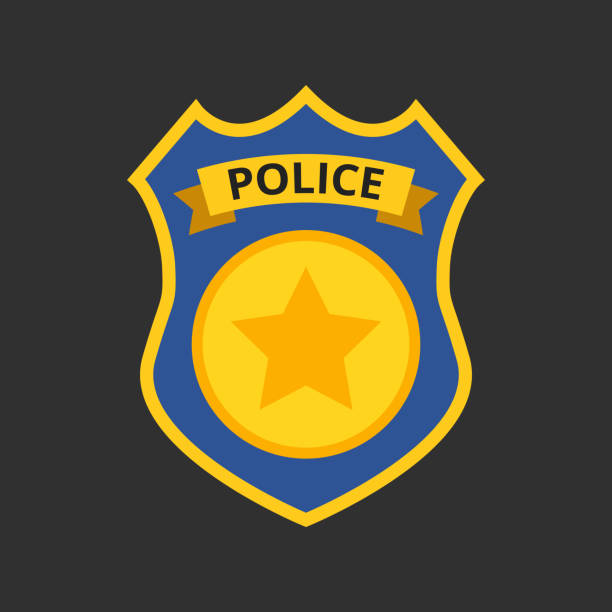
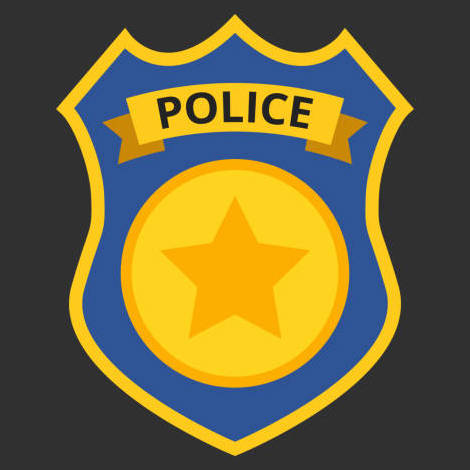
Working on flashlight feature

diff --git a/CapstoneProject/src/game/HauntedMaze.java b/CapstoneProject/src/game/HauntedMaze.java
@@ -19,43 +19,40 @@ public class HauntedMaze extends ScreenObject {
 	
 	public Officer protagonist;
 	public Grinch villain;
-	public MazeData data;
+	public MazeData settingData;
 	public ArrayList<Item> items;
+	
+	public double direction; // direction with respect to the horizontal (pointing right, clockwise) 
+	public static final double LIGHT_ANGLE = Math.PI*50/360;
+	public static final double LIGHT_DIST = 200;
+	public static final int LIGHT_RES = 10;
 	
 	public HauntedMaze()
 	{
 		super(0, 0, 200, 200);
-		protagonist = new Officer(10, 10);
+		protagonist = new Officer(null, 10, 10);
 		villain = new Grinch();
-		data = new MazeData();
+		settingData = new MazeData();
 		items = new ArrayList<Item>(); 
 		
+		direction = 0;
 	}
-
-	
-	public HauntedMaze(int size)
-	{
-		super(0, 0, 200, 200);
-		villain = new Grinch();
-		data = new MazeData();
-		items = new ArrayList<Item>();
-		
-	}
-	
 	
 	public void draw(PApplet marker)
 	{
-		marker.push();
-		
 		x = (marker.width-w)/2.0;
 		y = (marker.height-h)/2.0;
-		// mazeData.drawWalls(marker); 
 		
-		marker.rect((float)x, (float)y, (float)w, (float)h);
+		
+		marker.push();
+		
+		// marker.rect((float)x, (float)y, (float)w, (float)h);
 		marker.fill(0, 0, 0);
 		marker.text("Haunted Maze", (float)(x + w/2), (float)(y + h/2));
 		
-		data.drawWalls(marker);
+		settingData.draw(marker, (float)x, (float)y, (float)w, (float)h);
+		
+		drawLighting(marker);
 		protagonist.draw(marker);
 		villain.draw(marker);
 		for (Item i : items)
@@ -64,9 +61,145 @@ public class HauntedMaze extends ScreenObject {
 		marker.pop();
 	}
 	
+	public void drawLighting(PApplet marker)
+	{
+		marker.push();
+		
+		// marker.noStroke();
+		
+		
+		double px = protagonist.getX() + protagonist.getW()/2;
+		double py = protagonist.getY() + protagonist.getH()/2;
+		
+		
+		double[][] pointArr = new double[LIGHT_RES+1][2];
+		
+		for (int i = 0; i < LIGHT_RES; i++)
+		{
+			double angle = direction - LIGHT_ANGLE/2 + LIGHT_ANGLE*i/LIGHT_RES;
+			double travelDist = LIGHT_DIST;
+			double X1 = px + Math.cos(angle)*travelDist; double Y1 = py + Math.sin(angle)*travelDist;
+			double X2 = px + Math.cos(angle + LIGHT_ANGLE/LIGHT_RES)*travelDist; double Y2 = py + Math.sin(angle + LIGHT_ANGLE/LIGHT_RES)*travelDist;
+			pointArr[i][0] = X1; pointArr[i][1] = Y1;
+			pointArr[i+1][0] = X2; pointArr[i+1][1] = Y2;
+		}
+		
+		double minX = Double.MAX_VALUE; double maxX = Double.MIN_VALUE;
+		double minY = Double.MAX_VALUE; double maxY = Double.MIN_VALUE;
+		
+		for (double[] pt : pointArr)
+		{
+			if (pt[0] < minX)
+				minX = pt[0];
+			if (pt[0] > maxX)
+				maxX = pt[0];
+			if (pt[1] < minY)
+				minY = pt[1];
+			if (pt[1] > maxY)
+				maxY = pt[1];
+		}
+		maxX = Math.max(px, maxX); minX = Math.min(px, minX);
+		maxY = Math.max(py, maxY); minY = Math.min(py, minY);
+		
+		double[][] boxArr = new double[LIGHT_RES+1][2];
+		int cornerIndex = -1;
+		double[] corner = new double[2];
+		
+		for (int i = 0; i < LIGHT_RES+1; i++)
+		{
+			boxArr[i] = findEndPt(px, py, pointArr[i], minX, maxX, minY, maxY);
+			
+			if ((i > 0) && (cornerIndex == -1))
+			{
+				boolean ifEither = true;
+				if (equal(boxArr[i-1][0], maxX) && equal(boxArr[i][1], maxY))
+					{corner[0] = maxX; corner[1] = maxY; System.out.println("1");}
+				else if (equal(boxArr[i-1][1], maxY) && equal(boxArr[i][0], minX))
+					{corner[0] = minX; corner[1] = maxY; System.out.println("2");}
+				else if (equal(boxArr[i-1][0], minX) && equal(boxArr[i][1], minY))
+					{corner[0] = minX; corner[1] = minY; System.out.println("3");}
+				else if (equal(boxArr[i-1][1], minY) && equal(boxArr[i][0], maxX))
+					{corner[0] = maxX; corner[1] = minY; System.out.println("4");}
+				else
+					ifEither = false;
+				if (ifEither)
+					cornerIndex = i;
+			}
+			
+		}
+		// System.out.println(cornerIndex);
+		// System.out.println(corner[0] + " " + corner[1]);
+		
+		for (int i = 0; i < LIGHT_RES; i++)
+		{
+			marker.fill(252, 252, 38, 100);
+			marker.triangle((float)px, (float)py,
+							(float)pointArr[i][0], (float)pointArr[i][1],
+							(float)pointArr[i+1][0], (float)pointArr[i+1][1]);
+			
+			marker.fill(0, 0, 0, 50);
+			
+			marker.quad((float)boxArr[i][0], (float)boxArr[i][1],
+					(float)pointArr[i][0], (float)pointArr[i][1],
+					(float)pointArr[i+1][0], (float)pointArr[i+1][1],
+					(float)boxArr[i+1][0], (float)boxArr[i+1][1]);
+			
+			if (i+1 == cornerIndex)
+			{
+				marker.triangle((float)corner[0], (float)corner[1],
+								(float)boxArr[i+1][0], (float)boxArr[i+1][1],
+								(float)boxArr[i][0], (float)boxArr[i][1]);
+			}
+		}
+		
+		marker.fill(0, 0, 0, 40);
+		marker.rect((float)x, (float)y, (float)w, (float)h);
+		
+		marker.pop();
+	}
+	
+	public boolean equal(double a, double b)
+	{
+		return Math.abs(a-b) <= 0.0000001;
+	}
+	
+	private double[] findEndPt(double px, double py, double[] pt, double minX, double maxX, double minY, double maxY)
+	{	
+		double[] endPt = new double[2];
+		
+		double endX1 = (pt[0] - px > 0) ? maxX : minX;
+		double endY1 = py + (pt[1] - py)*Math.max((minX - px)/(pt[0] - px), (maxX - px)/(pt[0] - px));
+			
+		double endY2 = (pt[1] - py > 0) ? maxY : minY;
+		double endX2 = px + (pt[0] - px)*Math.max((minY - py)/(pt[1] - py), (maxY - py)/(pt[1] - py));
+		
+		if ((endY1 <= maxY+0.01) && (endY1 >= minY-0.01))
+		{endPt[0] = endX1; endPt[1] = endY1;}
+		else if ((endX2 <= maxX+0.01) && (endX2 >= minX-0.01))
+		{endPt[0] = endX2; endPt[1] = endY2;}
+		else
+		{endPt[0] = 0; endPt[1] = 0;}
+		
+		return endPt;
+	}
+	
 	public void addItem(Item e)
 	{
 		items.add(e);
+	}
+	
+	public void update(double mouseX, double mouseY)
+	{
+		double px = protagonist.getX() + protagonist.getW()/2;
+		double py = protagonist.getY() + protagonist.getH()/2;
+		
+		double relX = mouseX - px; double relY = mouseY - py;
+		double dist = Math.sqrt(Math.pow(relX, 2) + Math.pow(relY, 2));
+		
+		direction = (relY > 0) ? Math.acos(relX/dist) : (2*Math.PI - Math.acos(relX/dist));
+		
+		protagonist.act();
+		villain.act();
 	}
 
 }

diff --git a/CapstoneProject/src/screen/GameScreen.java b/CapstoneProject/src/screen/GameScreen.java
@@ -32,11 +32,18 @@ public class GameScreen extends Screen {
 		this.surface = surface;
 		System.out.println(surface.width + " " + surface.height);
 		gameSetting = new HauntedMaze();
-		bar = new InfoBar();
+		bar = new InfoBar(gameSetting.protagonist);
+	}
+	
+	public void setup()
+	{
+		gameSetting.protagonist.setImage(surface.loadImage(Officer.IMG_PATH));
 	}
 	
 	public void draw()
 	{
+		gameSetting.update(surface.mouseX, surface.mouseY);
+		
 		surface.background(255, 255, 255);
 		
 		gameSetting.draw(surface);
@@ -50,18 +57,18 @@ public class GameScreen extends Screen {
 		if (surface.isPressed(KeyEvent.VK_A) && surface.isPressed(KeyEvent.VK_D))
 			gameSetting.protagonist.setVx(0);
 		else if (surface.isPressed(KeyEvent.VK_A))
-			gameSetting.protagonist.setVx(-1);
+			gameSetting.protagonist.setVx(-Officer.AXIS_V);
 		else if (surface.isPressed(KeyEvent.VK_D))
-			gameSetting.protagonist.setVx(1);
+			gameSetting.protagonist.setVx(Officer.AXIS_V);
 		else
 			gameSetting.protagonist.setVx(0);
 			
 		if (surface.isPressed(KeyEvent.VK_W) && surface.isPressed(KeyEvent.VK_S))
 			gameSetting.protagonist.setVy(0);
 		else if (surface.isPressed(KeyEvent.VK_W))
-			gameSetting.protagonist.setVy(-1);
+			gameSetting.protagonist.setVy(-Officer.AXIS_V);
 		else if (surface.isPressed(KeyEvent.VK_S))
-			gameSetting.protagonist.setVy(1);
+			gameSetting.protagonist.setVy(Officer.AXIS_V);
 		else
 			gameSetting.protagonist.setVy(0);
 	}

diff --git a/CapstoneProject/src/characters/Officer.java b/CapstoneProject/src/characters/Officer.java
@@ -1,6 +1,8 @@
 package characters;
 
 import java.util.*;
+
+import core.DrawingSurface;
 import processing.core.*;
 import items.*;
 
@@ -8,19 +10,23 @@ public class Officer extends Actor {
 	
 	// has blueprints and health level (# of lives)
 	
-	private static String imgPath = "";
+	public static final String IMG_PATH = "assets/badge.png";
+	// image taken from
+	// https://www.google.com/url?sa=i&url=https%3A%2F%2Fwww.istockphoto.com%2Fphotos%2Fpolice-badge-graphic&psig=AOvVaw3xpVBxMDAwHVxv8yK_jvxl&ust=1652402341678000&source=images&cd=vfe&ved=0CA0QjhxqFwoTCLi90tHc2PcCFQAAAAAdAAAAABAQ
 	
 	private int health;
 	private ArrayList<Blueprint> blueprints;
+	
+	public static double AXIS_V = 90; 
 	
 	/**
 	 * Creates a new Officer object
 	 * @param x the x-coordinate of the officer
 	 * @param y the y-coordinate of the officer
 	 */
-	public Officer(int x, int y)
+	public Officer(PImage img, int x, int y)
 	{
-		super(null, x, y, 20, 20);
+		super(img, x, y, 30, 40);
 		blueprints = new ArrayList<Blueprint>();
 	}
 	
@@ -73,14 +79,15 @@ public class Officer extends Actor {
 		marker.push();
 		
 		marker.fill(0);
-		marker.rect((float)x,  (float)y, (float)w, (float)h);
+		// marker.rect((float)x,  (float)y, (float)w, (float)h);
+		marker.image(image, (float)x, (float)y, (float)w, (float)h);
 		
 		marker.pop();
 	}
 	
 	public void act()
 	{
-		x += vx;
-		y += vy;
+		x += vx*DrawingSurface.DT;
+		y += vy*DrawingSurface.DT;
 	}
 }

diff --git a/CapstoneProject/src/characters/Actor.java b/CapstoneProject/src/characters/Actor.java
@@ -6,13 +6,18 @@ public class Actor extends ScreenObject {
 	
 	// has an image, velocity vector, and image
 	
-	private PImage image;
+	protected PImage image;
 	protected double vx, vy; 
 	
 	public Actor(PImage img, int x, int y, int w, int h) {
 		super(x, y, w, h);
-		image = img;
 		vx = 0; vy = 0;
+		setImage(img);
+	}
+	
+	public void setImage(PImage img)
+	{
+		image = img;
 	}
 	
 	/**

diff --git a/CapstoneProject/src/screen/ScreenObject.java b/CapstoneProject/src/screen/ScreenObject.java
@@ -24,6 +24,26 @@ public abstract class ScreenObject {
 		this.w = w; this.h = h;
 	}
 	
+	public double getX()
+	{
+		return x;
+	}
+	
+	public double getY()
+	{
+		return y;
+	}
+	
+	public double getW()
+	{
+		return w;
+	}
+	
+	public double getH()
+	{
+		return h;
+	}
+	
 	public void setPos(double newX, double newY)
 	{
 		this.x = newX; this.y = newY;

diff --git a/CapstoneProject/src/game/InfoBar.java b/CapstoneProject/src/game/InfoBar.java
@@ -14,11 +14,11 @@ public class InfoBar extends ScreenObject {
 	// will print important things about officer
 	private Officer officer;
 	
-	public InfoBar()
+	public InfoBar(Officer o)
 	{
 		//x, y, width, height
 		super(0, 0, 100, 300);
-		officer = new Officer(10, 10);
+		officer = o;
 	}
 	
 	public void draw(PApplet marker)

diff --git a/CapstoneProject/src/core/DrawingSurface.java b/CapstoneProject/src/core/DrawingSurface.java
@@ -14,6 +14,8 @@ public class DrawingSurface extends PApplet {
 	
 	private ArrayList<Integer> keys;
 	
+	public static double DT = 1.0/60;
+	
 	public DrawingSurface()
 	{
 		screens = new ArrayList<Screen>();
